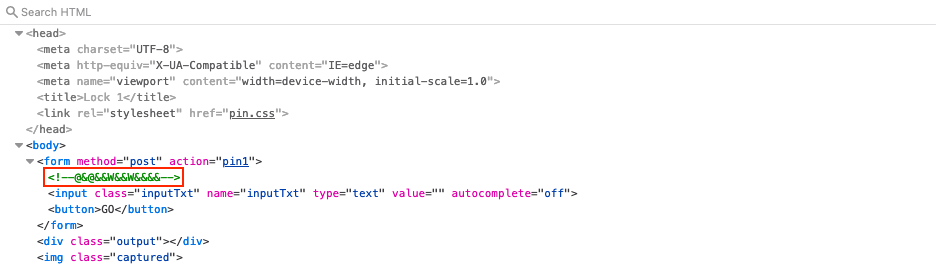
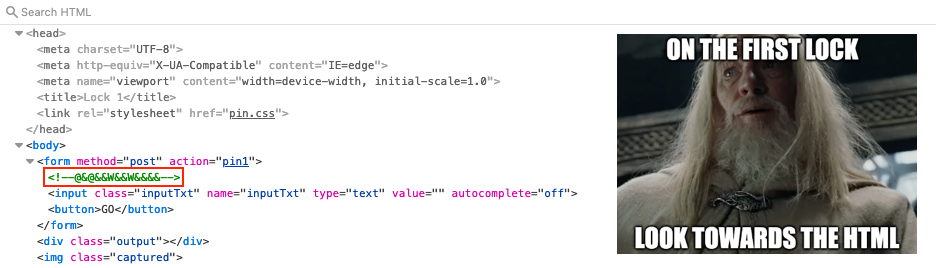
Add meme, fix wording.

Changed region(s): [[0.6506, 0.1194, 0.9915, 0.9552]]

diff --git a/docs/objectives/o9.md b/docs/objectives/o9.md
@@ -37,7 +37,7 @@ icon: material/lock
 
 ### Lock 1
 
-To solve this objective only the first 3 locks need to be opened. The remaining locks aren't required, but opening them will get us an additional hint. To unlock, each colored input needs to be connected with its output by a path in the corresponding color. We do this by submitting text, HTML, or JavaScript. The server renders our input and converts it to an image which is inserted on the lock. For the first lock there aren't any restrictions and a sample solution is even provided in the HTML source itself.
+To solve this objective only the first 3 locks need to be opened. The remaining locks aren't required, but opening them will result in an additional hint. To unlock, each colored input needs to be connected with its output by a path in the corresponding color. We do this by submitting text, HTML, or JavaScript. The server renders our input and converts it to an image which is inserted on the lock. For the first lock there aren't any restrictions and a sample solution is even provided in the HTML source itself.
 
 ![Lock 1 source](../img/objectives/o9/lock1_source.png){ class=border }
 
